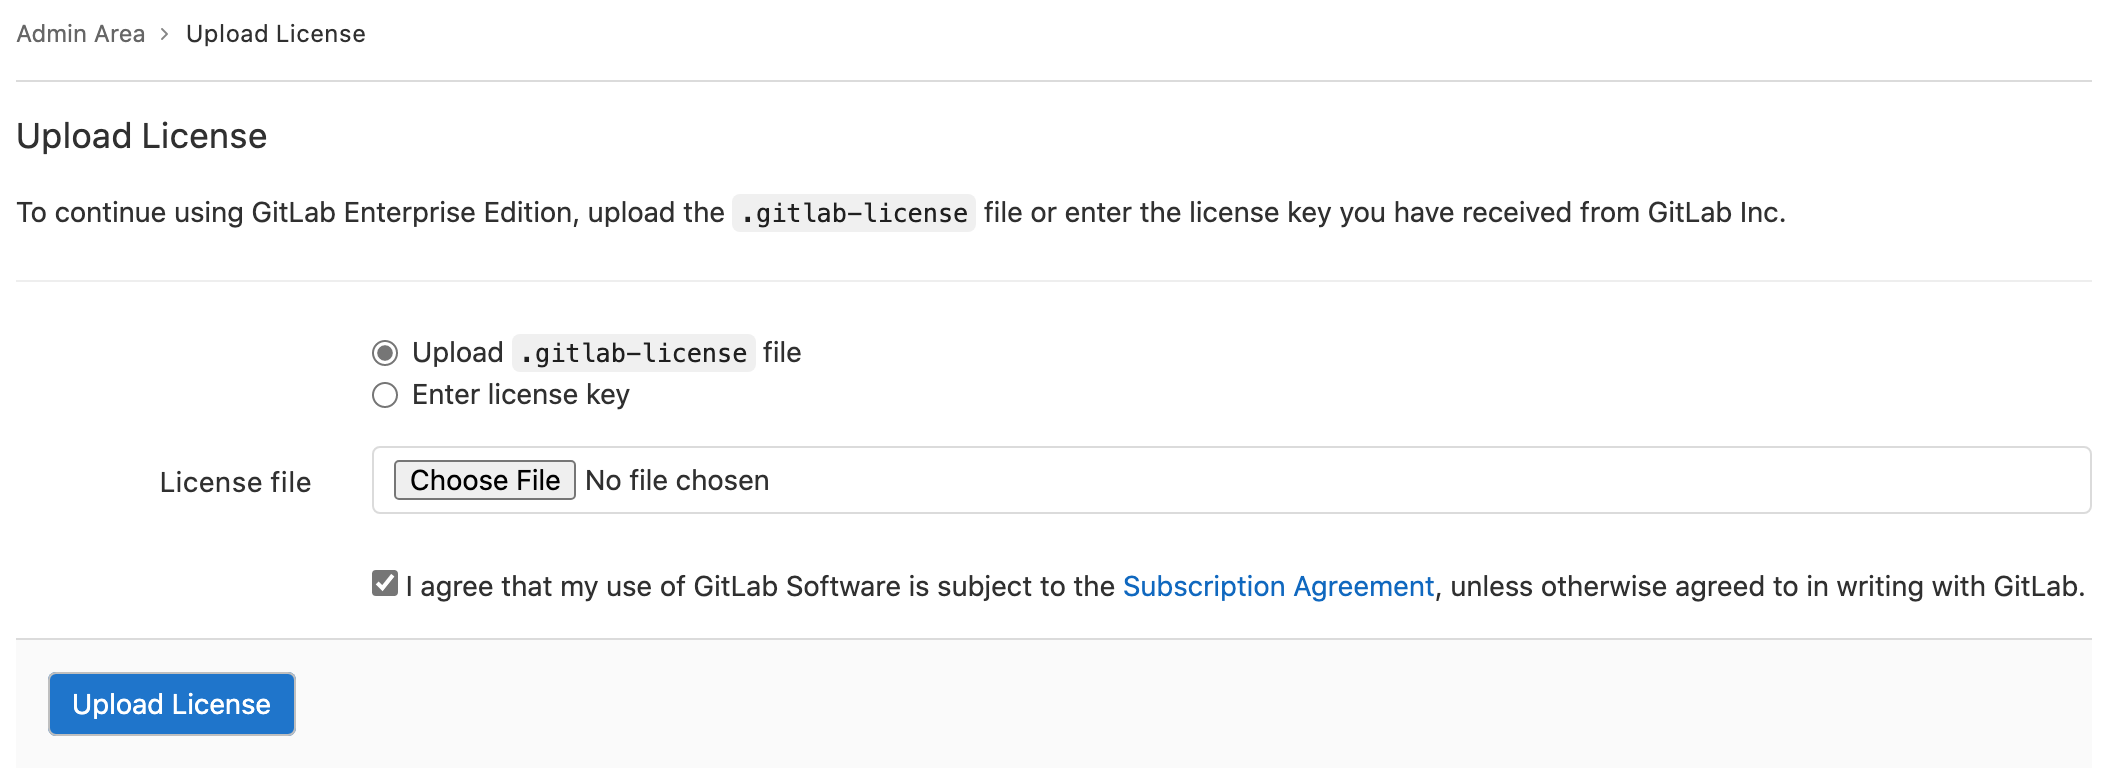
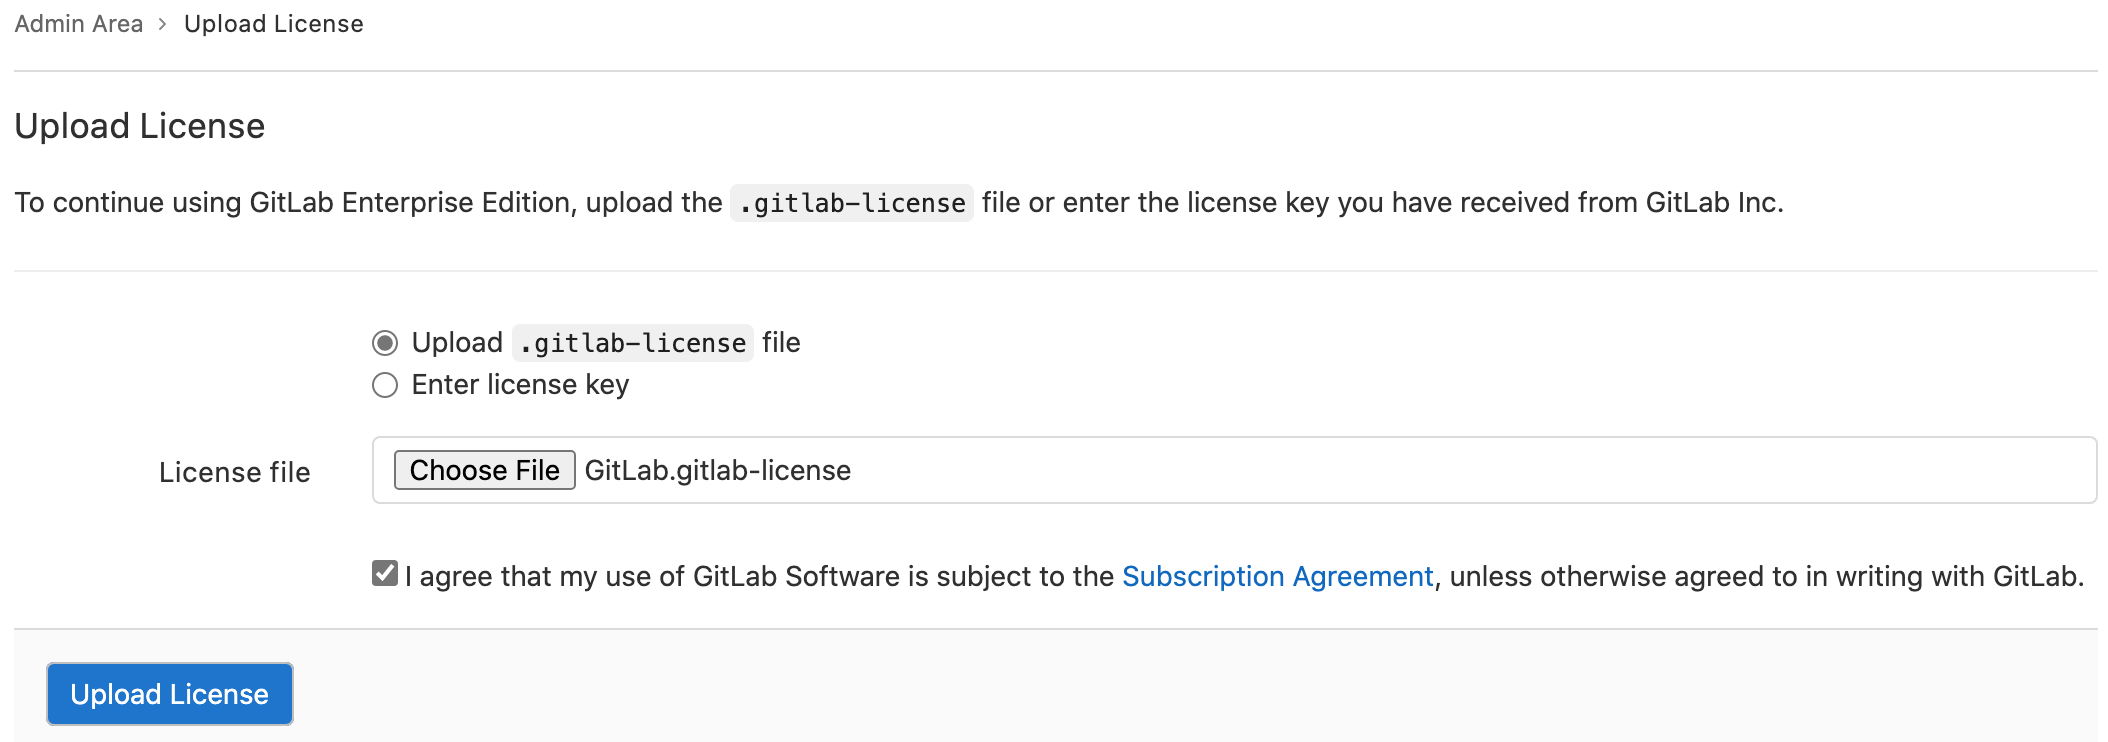
Updated screenshot

diff --git a/doc/user/admin_area/license.md b/doc/user/admin_area/license.md
@@ -50,7 +50,7 @@ Otherwise, you can:
      1. Check the Subscription Agreement checkbox.
      1. Select **Upload License**.
 
-     ![Upload license](img/license_upload.png)
+     ![Upload license](img/license_upload_v13.8.png)
 
    - *If you've received your license as plain text:*
     1. Select **Enter license key**
